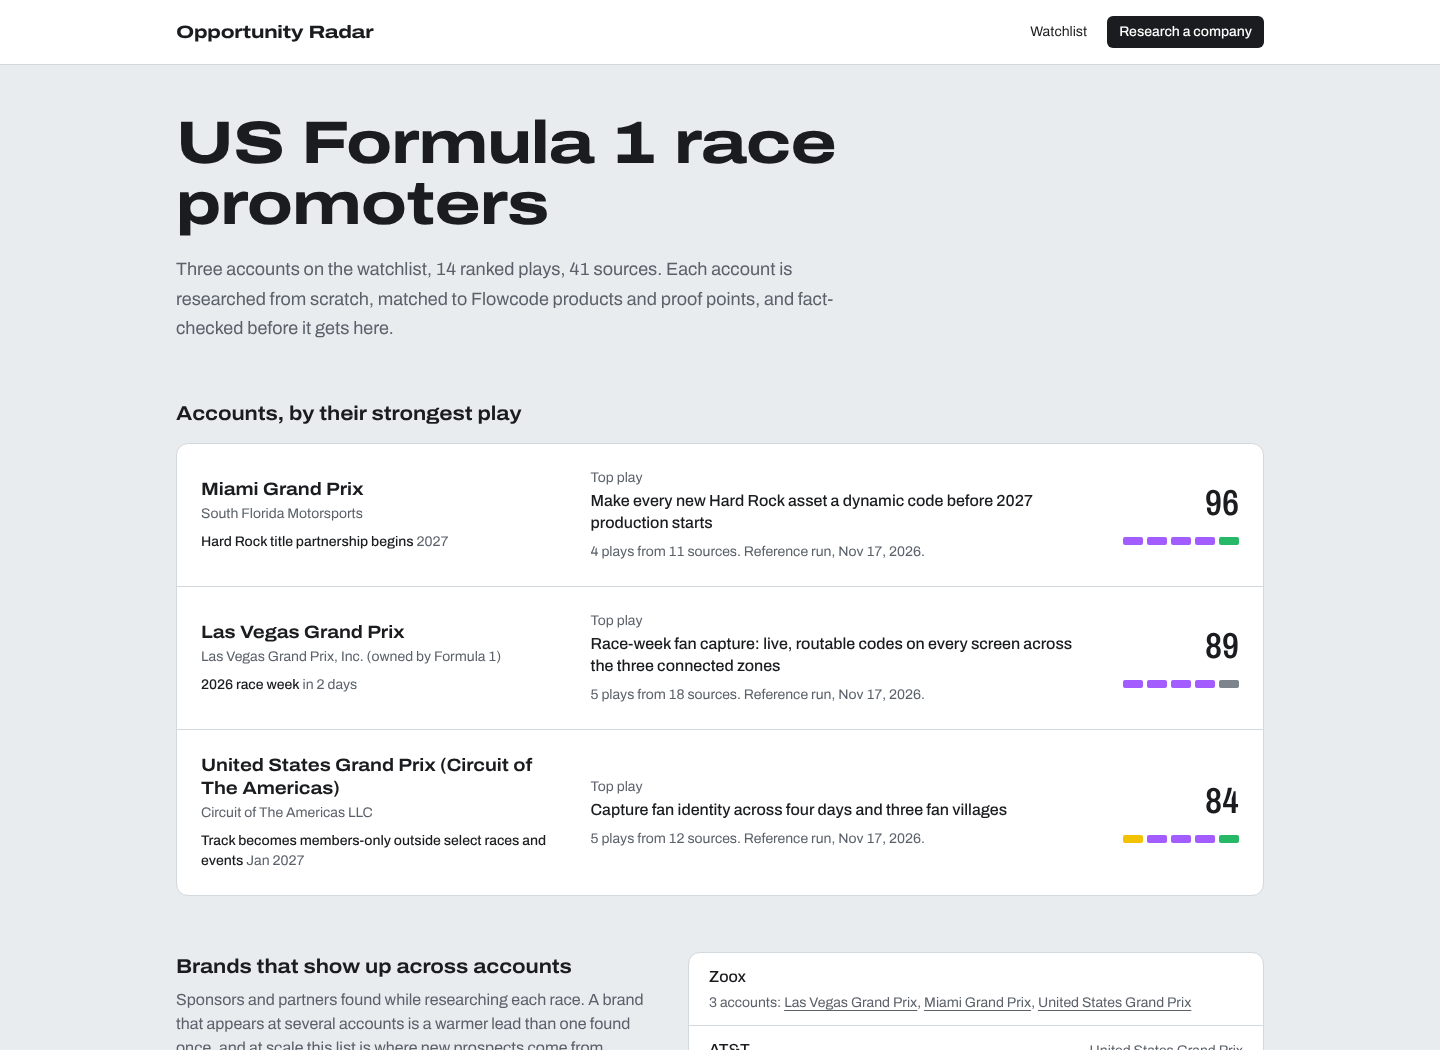
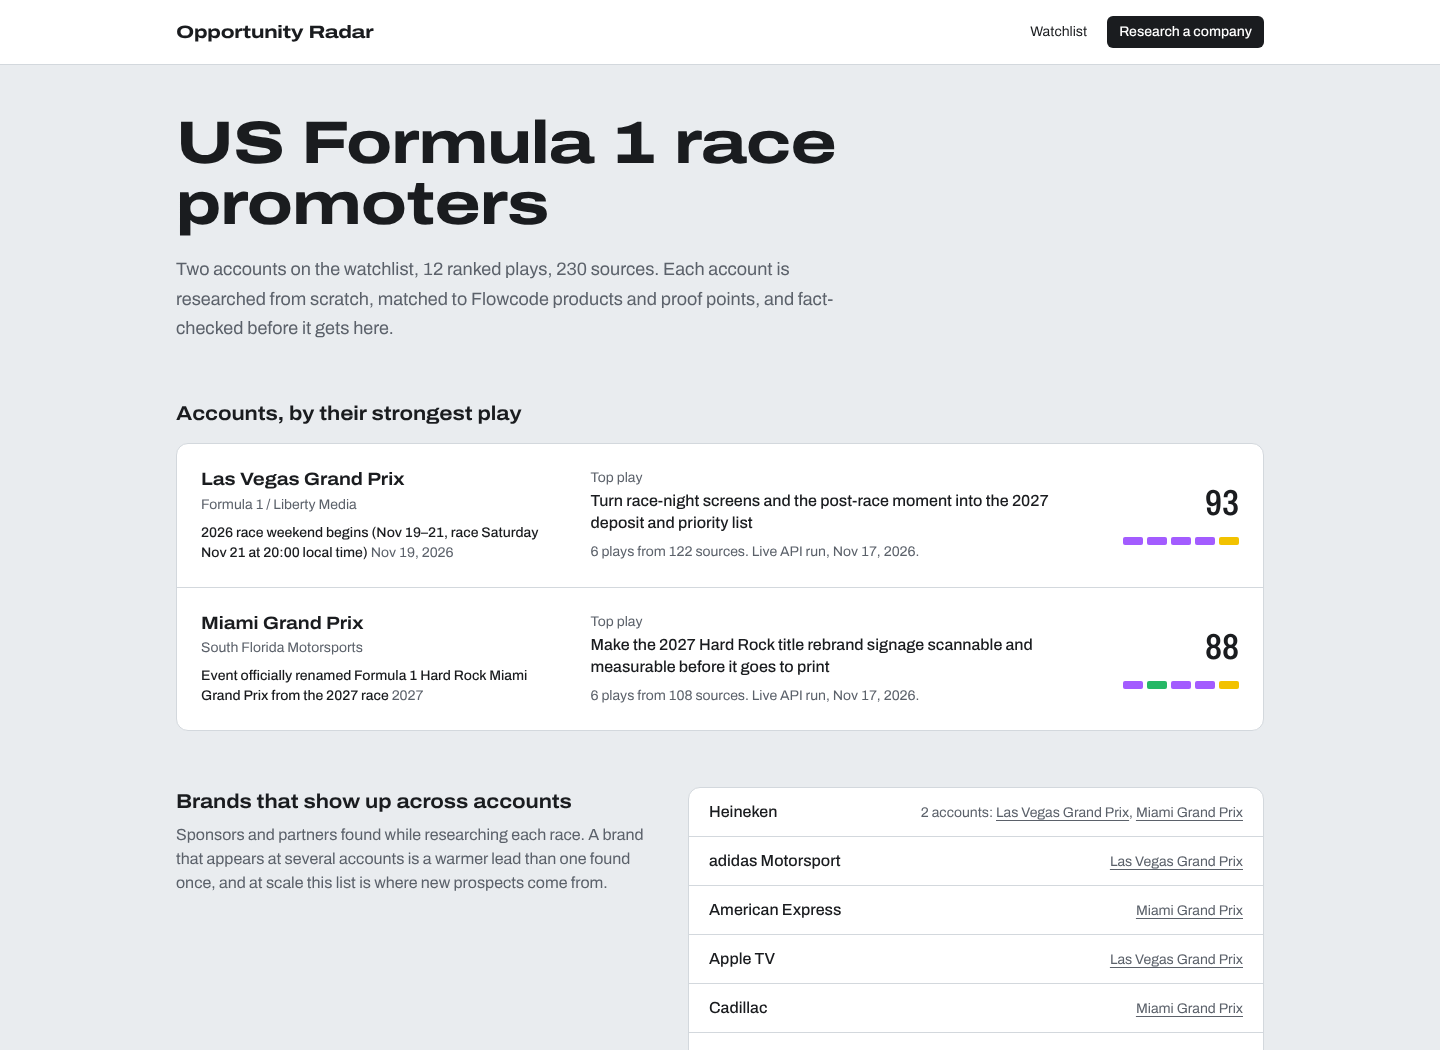
README matches the current reports, adds where the time went
Updates the account list, the example play, the cross-account lead and
the ranking example to the live Las Vegas and Miami reports, adds a
short section on where the time went, and refreshes both screenshots.

Claude-Session: https://claude.ai/code/session_01XDstcAnQ8MJGsL6YxFubvh

diff --git a/README.md b/README.md
@@ -2,7 +2,7 @@
 
 An agent that takes a company name or website, researches what the company is doing right now, and returns a ranked list of places Flowcode could help. Each play says what is happening, why Flowcode fits, how to run it, who to pitch, and where every fact came from.
 
-The demo account list is the three US Formula 1 races: **Las Vegas** (race week starts Nov 19, 2026), **Miami** and **Austin (COTA)**. Each is run by a different company, which is a small version of the real job: many accounts, one method.
+The demo accounts are the US Formula 1 races, each run by a different company, which is a small version of the real job: many accounts, one method. **Las Vegas** (race week starts Nov 19, 2026) and **Miami** were researched end to end by the agent. **Austin (COTA)** is left off the watchlist to research live in the demo, and an earlier run is kept in `data/archive`.
 
 ![Watchlist](docs/watchlist.png)
 
@@ -10,7 +10,13 @@ The demo account list is the three US Formula 1 races: **Las Vegas** (race week 
 [Las Vegas Grand Prix](data/reports/las-vegas-grand-prix.md) ·
 [Miami Grand Prix](data/reports/miami-grand-prix.md)
 
-> **About these samples.** Each report says how it was made: *Live API run* (the agent end to end on the Claude API), *Claude Code run* (the `/research` skill on a Claude plan, page-checked by code) or *Reference run* (research gathered with live web search on Nov 17, 2026 and written into the agent's schema by hand). All three kinds go through the same validation, scoring and ranking code.
+> **About these samples.** Both are *live API runs*: the agent end to end on the Claude API, with no hand edits to the research, plays or scores. After the run, key dates for other organizations' events were removed from each company profile, and each report says so. Reports can also come from a *Claude Code run* (the `/research` skill on a Claude plan, page-checked by code). Every kind goes through the same validation, scoring and ranking code.
+
+## Where I spent the time
+
+1. **Research quality and sourcing, most of all.** In a sales tool, one wrong fact in an outreach email costs the meeting, and at thousands of accounts nobody checks by hand. Sources come only from the search API's own citations, or are checked on the page by code. Unsupported claims are dropped, a second model fact-checks each play, and stale facts are flagged.
+2. **An output a seller can act on.** Each play names what is happening, why Flowcode fits with a matching case study, the steps, the buyer, the timing window, the KPIs and what to confirm first. It ships as a web report, Markdown for email or CRM, and JSON.
+3. **Reasoning and ranking, kept simple on purpose.** The model rates four judgment calls with reasons. Code adds evidence strength, weights and guardrails. Transparent and tunable by a sales leader, and ready to learn from seller feedback.
 
 ## Two ways to run it
 
@@ -79,7 +85,7 @@ company name or URL
 | --- | --- | --- | --- | --- |
 | 25% | 25% | 20% | 15% | 15% |
 
-In the UI the five components appear as sectors on an F1 timing screen: purple is the best possible rating, green strong, yellow middling, grey weak. A seller can see at a glance why the Vegas race-week play leads despite poor access (two days of lead time), and why Miami's fan-data play ranks lower (its evidence is from 2025).
+In the UI the five components appear as sectors on an F1 timing screen: purple is the best possible rating, green strong, yellow middling, grey weak. A seller can see at a glance why the Vegas race-week play leads (top marks on timing, size, fit and evidence) and that its one weak sector is access to the buyer, with two days of lead time. Under each play, *Why it ranks here* lists every rating's reason and any guardrail that fired.
 
 **Two views built for a seller.** While research runs, the page shows it live: six lens tiles that light up like F1 sectors, counters for searches, pages read and distinct sites, a feed of every search and page, and the sites as they are found. Each finished report opens with a sources summary: how many sources and sites back it, how many quotes were confirmed, and the most cited sites.
 
@@ -87,14 +93,14 @@ In the UI the five components appear as sectors on an F1 timing screen: purple i
 
 ## What a play looks like
 
-From the Miami report, the top-ranked play (score 96):
+From the Las Vegas report, the top-ranked play (score 93):
 
-> **Make every new Hard Rock asset a dynamic code before 2027 production starts.**
-> *What's happening:* Hard Rock takes the title from 2027, so track, paddock, fan-area and podium signage changes from Crypto.com to Hard Rock branding. The race is contracted through 2041 and drew a record 275,000 fans in 2024. [1][2][3][4]
-> *Why Flowcode:* A rebrand forces a reprint, which is the cheapest moment to add codes. Flowcodes can be updated after printing, so assets made for 2027 keep working through 2041...
-> *Pitch to:* Miami GP commercial and marketing leads, with Hard Rock partnership marketing. *When:* before 2027 signage production.
+> **Turn race-night screens and the post-race moment into the 2027 deposit and priority list.**
+> *What's happening:* The 2027 race is confirmed for Nov 18-20, 2027. For 2026, fans placed deposits through April 30 for priority access... This year's weekend expects 100,000+ visitors a day.
+> *Why Flowcode:* Flowcodes on venue screens and the drivers'-parade and post-race moments can send fans to a FlowHub 2027 priority sign-up. FlowID captures identity at the moment demand is highest...
+> *Pitch to:* Ticketing and CRM lead. *When:* race week Nov 19-21 through the 2027 deposit window.
 
-Each report also lists **follow-on leads**: partner brands that are Flowcode prospects in their own right. The watchlist rolls these up across accounts. Zoox shows up at all three races, which makes it a warmer lead than any brand found once.
+Each report also lists **follow-on leads**: partner brands that are Flowcode prospects in their own right. The watchlist rolls these up across accounts. Heineken shows up at both Las Vegas and Miami, which makes it a warmer lead than any brand found once.
 
 ![Report](docs/report.png)
 
@@ -132,7 +138,7 @@ At scale:
 **Checking quality.**
 - By construction: every URL in a report came from the search API, every play has at least one source, every output passes a schema.
 - Per run: the fact-check verdict per play, dropped items with reasons, stale signal counts. All of it is in the report's quality section and visible in the UI.
-- Offline: the three reference reports in `data/reference` are a starting golden set. On every prompt or model change, rerun them and compare scores, coverage of known signals, and an LLM-graded rubric for specificity (does the play name a touchpoint, a moment and a buyer?).
+- Offline: the research files in `data/reference` and `data/archive` are a starting golden set. On every prompt or model change, rerun them and compare scores, coverage of known signals, and an LLM-graded rubric for specificity (does the play name a touchpoint, a moment and a buyer?).
 - Human: sample a small share of reports each week for review, and let sellers mark plays as used, wrong, or already known. Those labels tune the weights and become new eval cases.
 - The metric that matters: share of plays a seller acts on, and meetings booked from them.
 
@@ -154,7 +160,7 @@ At scale:
 2. **Scheduler** (a cron worker or a queue like Inngest or SQS) picks accounts due for a check based on tier and key dates.
 3. **Monitor pass** asks one cheap question per account: what is new since the last run? Only accounts with new evidence get the full six-lens run.
 4. **Diff and alert.** The change detector already in the pipeline decides what is new. A new play above a score threshold creates a CRM task for the account owner and a Slack message with the one-line headline and a link to the report.
-5. **Cross-account graph.** Sponsors found at one account become prospects, and a brand seen at several accounts moves up the list. Zoox at all three races is the first example.
+5. **Cross-account graph.** Sponsors found at one account become prospects, and a brand seen at several accounts moves up the list. Heineken at both Las Vegas and Miami is the first example.
 6. **Feedback loop.** Seller labels on each play flow back into the scoring weights and the eval set, so the ranking learns what this team actually acts on.
 
 ## Project layout
